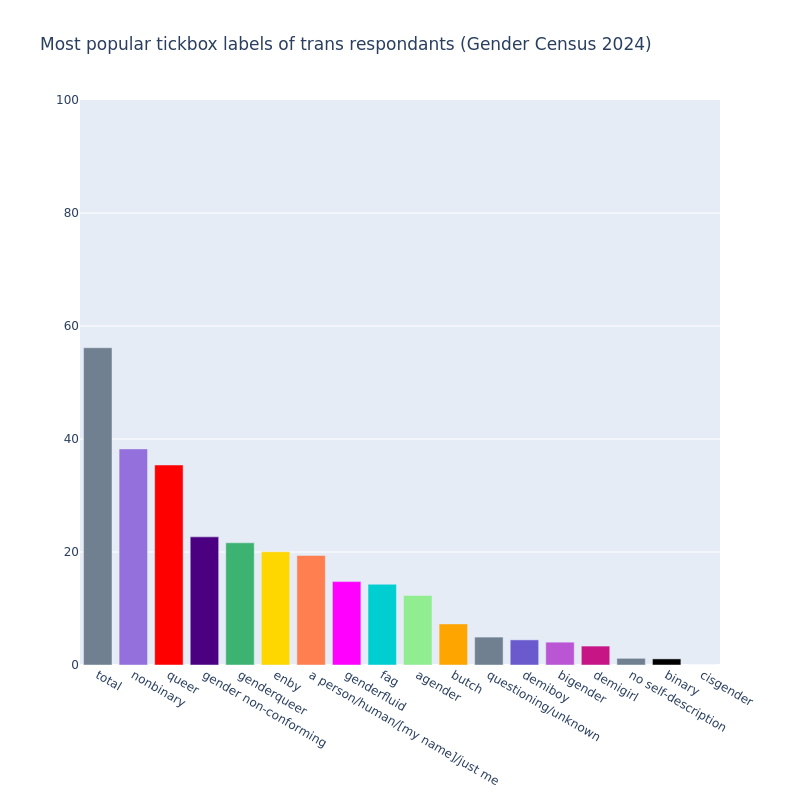
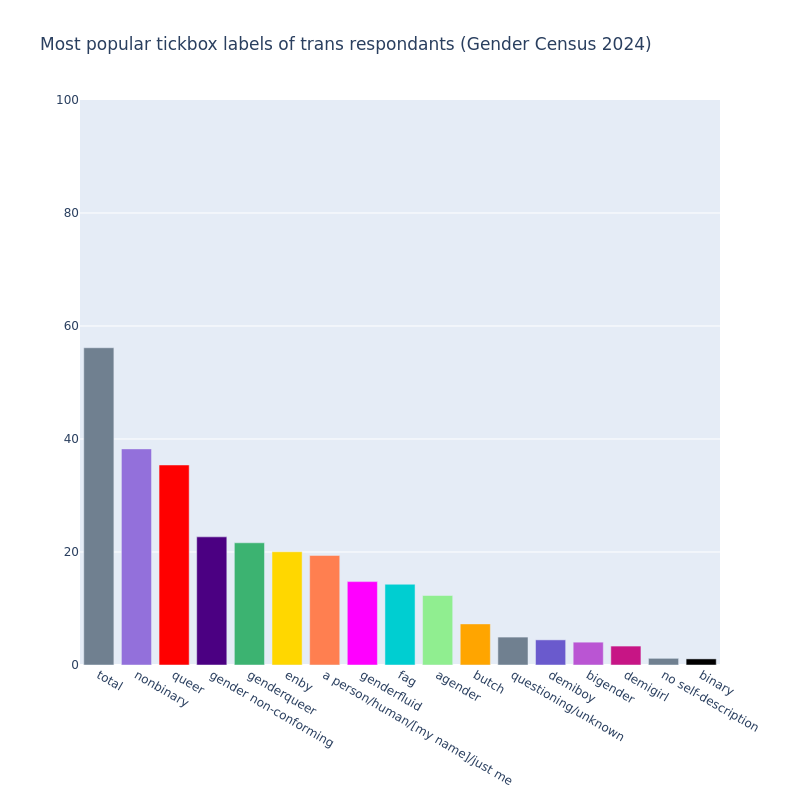
add 0 value removal to count df -> if there's 0 of a column there were no respondants in that category so we don't need to have it in here

Changed region(s): [[0.125, 0.4375, 0.9375, 0.9375], [0.5625, 0.9375, 0.625, 1.0]]

diff --git a/visualisation/make_prepped_df.py b/visualisation/make_prepped_df.py
@@ -185,5 +185,8 @@ def count_df(input_df:pd.DataFrame, data_case:str):
 
     # sorting descending
     new_series = new_series.sort_values(ascending=False)
+    
+    # remove any 0 values bc we have no respondants of that label/combo/etc
+    new_series = new_series.where(new_series != 0).dropna(how="all")
 
     return new_series
